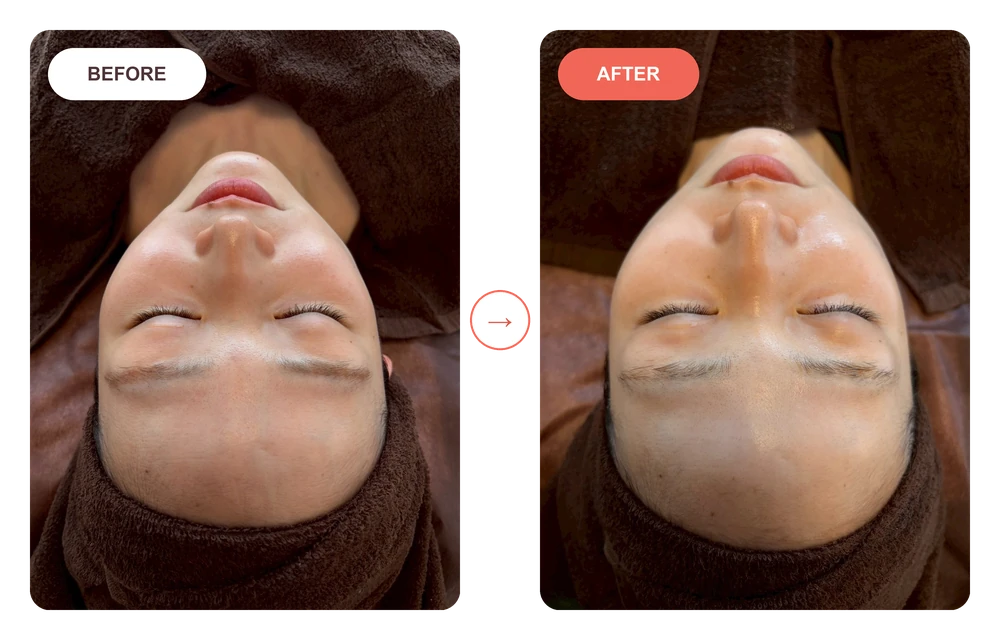
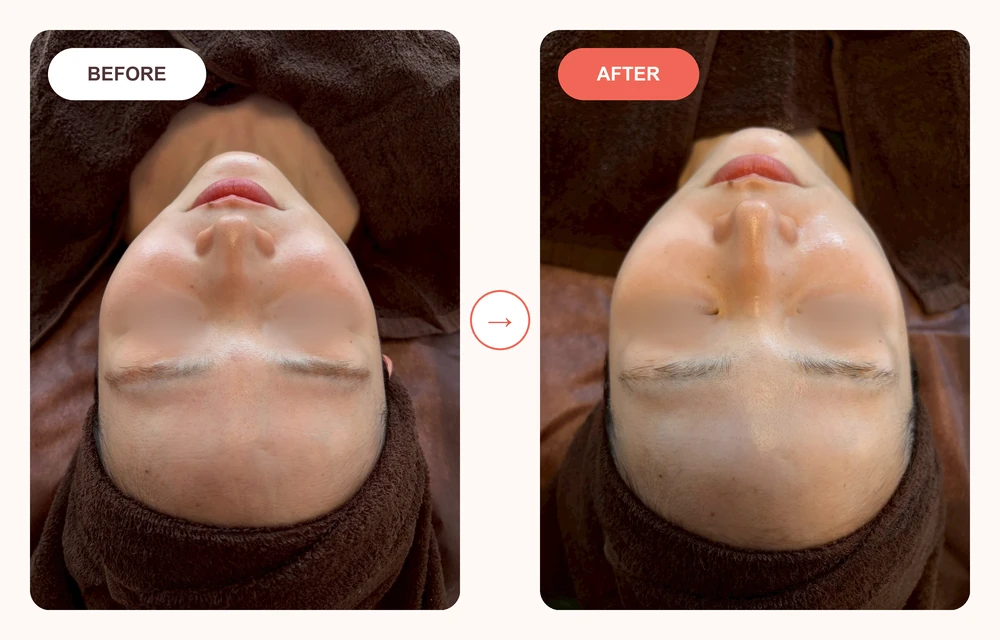
タブレット・中間サイズFV対応：テキスト拡大、SCROLL非表示、チップ非表示

diff --git a/style.css b/style.css
@@ -5720,16 +5720,7 @@ body.drawer-open {
     grid-column: span 2;
   }
 
-  /* Benefit：スマホでは1列に */
-  .benefit__list--stairs {
-    grid-template-columns: 1fr;
-    gap: 16px;
-  }
-  .benefit__item--1,
-  .benefit__item--2,
-  .benefit__item--3 {
-    margin-top: 0;
-  }
+  /* Benefit：スマホでは1列に（この行は空） */
 
   /* メカニズムのタイムライン */
   .mechanism__t-item {
@@ -6255,8 +6246,29 @@ body.drawer-open {
    タブレット調整 (min-width: 768px) and (max-width: 1024px)
    ============================================================ */
 @media (min-width: 768px) and (max-width: 1024px) {
-  /* FV：メイン画像をやや拡大 */
-  .fv__product-img { width: 48%; max-width: 360px; }
+  /* FV：max-width:900pxで1列化されるのをタブレットでは2列に戻す */
+  .fv__layout { grid-template-columns: 1.1fr 0.9fr !important; gap: 60px !important; text-align: left !important; }
+  .fv__copy { text-align: left !important; }
+  .fv__copy .brand-mark,
+  .fv__copy .fv__lead,
+  .fv__copy .fv__title,
+  .fv__copy .fv__sub { text-align: left !important; }
+  .fv__tags { justify-content: flex-start !important; }
+  /* FV：product-imgの親(.fv__visual)が900px以下で非表示になるため再表示 */
+  .fv__visual { display: block !important; }
+  /* FV：商品画像をPCと同じ位置・サイズに */
+  .fv__product-img { width: 60% !important; max-width: 460px !important; top: 45% !important; left: 40% !important; }
+  /* FV：テキストを大きく */
+  .fv__copy .fv__title { font-size: 84px !important; }
+  .fv__lead { font-size: 22px !important; }
+  .fv__sub { font-size: 16px !important; }
+  /* FV：浮いている3つのチップを非表示 */
+  .fv__chip { display: none !important; }
+  /* FV：SCROLLテキストと線を非表示 */
+  .fv__scroll,
+  .fv__scroll-line,
+  .scroll-indicator,
+  .fv__scroll-text { display: none !important; }
 
   /* FV：画像をやや縮小（ラインも追従） */
   .fv__left-group { width: min(85%, 450px); left: 28%; top: 60px; }
@@ -6445,28 +6457,99 @@ body.drawer-open {
   .header__nav { display: none; }
 }
 
-/* Benefit：PC・タブレットで常に3列横並び・テキスト収まる */
-@media (min-width: 768px) {
+/* Benefit：タブレット（768〜1024px）は縦1列・コンテンツ中央寄せ */
+@media (min-width: 768px) and (max-width: 1024px) {
   .benefit__list,
   .benefit__list--stairs {
-    display: grid;
-    grid-template-columns: repeat(3, 1fr);
-    gap: 24px;
-    align-items: start;
+    grid-template-columns: 1fr;
+    gap: 32px;
+    max-width: 460px;
+    margin-left: auto;
+    margin-right: auto;
   }
-  .benefit__item {
-    overflow: visible;
-    padding: 18% 8% 18%;
+  .benefit__item,
+  .benefit__item--1,
+  .benefit__item--2,
+  .benefit__item--3 {
+    margin-top: 0;
+    overflow: hidden !important;
+    aspect-ratio: 1 / 1 !important;
+    padding: 10% 8% !important;
+    justify-content: center !important;
+    align-items: center !important;
+  }
+  .benefit__inner {
+    justify-content: center !important;
+    height: auto !important;
+  }
+  .benefit__icon-wrap {
+    width: 44px !important;
+    height: 44px !important;
+    margin-bottom: 10px !important;
+  }
+  .benefit__icon-svg {
+    width: 32px !important;
+    height: 32px !important;
   }
   .benefit__title {
-    font-size: clamp(16px, 2.8vw, 38px);
+    font-size: clamp(24px, 4.8vw, 40px) !important;
+    margin-bottom: 10px !important;
+    line-height: 1.4 !important;
   }
   .benefit__text {
-    font-size: clamp(11px, 1.1vw, 14px);
-    line-height: 1.8;
+    font-size: clamp(12px, 1.5vw, 15px) !important;
+    line-height: 1.8 !important;
   }
   .benefit__decoration {
-    font-size: clamp(9px, 0.85vw, 11px);
+    font-size: clamp(9px, 1vw, 11px) !important;
+    margin-top: 12px !important;
   }
 }
 
+/* スマホ全域：SCROLLと線を非表示 */
+@media (max-width: 767px) {
+  .fv__scroll,
+  .fv__scroll-line,
+  .scroll-indicator,
+  .fv__scroll-text { display: none !important; }
+}
+
+/* Benefit：スマホ（〜767px）は1列に */
+@media (max-width: 767px) {
+  .benefit__list,
+  .benefit__list--stairs {
+    grid-template-columns: 1fr !important;
+    gap: 16px !important;
+    max-width: 100% !important;
+  }
+  .benefit__item--1,
+  .benefit__item--2,
+  .benefit__item--3 {
+    margin-top: 0 !important;
+  }
+}
+
+/* FV：600〜767px */
+@media (min-width: 600px) and (max-width: 767px) {
+  /* SCROLLと線を非表示 */
+  .fv__scroll,
+  .fv__scroll-line,
+  .scroll-indicator,
+  .fv__scroll-text { display: none !important; }
+  /* テキストをPCと同じ左揃えに */
+  .fv__copy { text-align: left !important; }
+  .fv__copy .brand-mark,
+  .fv__copy .fv__lead,
+  .fv__copy .fv__title,
+  .fv__copy .fv__sub { text-align: left !important; }
+  .fv__tags { justify-content: flex-start !important; }
+  /* テキストサイズ大きく（固定値） */
+  .fv__title,
+  .fv__copy .fv__title { font-size: 80px !important; }
+  .fv__lead,
+  .fv__copy .fv__lead { font-size: 22px !important; }
+  .fv__sub,
+  .fv__copy .fv__sub { font-size: 16px !important; }
+  /* ボタンを下に */
+  .fv__cta { margin-top: 120px !important; }
+}

diff --git a/index.html b/index.html
@@ -8,7 +8,17 @@
 <link rel="preconnect" href="https://fonts.googleapis.com">
 <link rel="preconnect" href="https://fonts.gstatic.com" crossorigin>
 <link href="https://fonts.googleapis.com/css2?family=Cormorant+Garamond:ital,wght@0,400;1,400&family=Marcellus&family=Noto+Sans+JP:wght@300;400&family=Shippori+Mincho&family=Caveat&family=Yomogi&family=Klee+One&family=Yusei+Magic&family=Hachi+Maru+Pop&display=swap" rel="stylesheet">
-<link rel="stylesheet" href="style.css">
+<link rel="stylesheet" href="style.css?v=20260805b">
+<style>
+/* 600〜767px FVテキスト強制上書き */
+@media (min-width: 600px) and (max-width: 767px) {
+  .fv__title { font-size: 80px !important; }
+  .fv__lead { font-size: 22px !important; }
+  .fv__sub { font-size: 16px !important; }
+  .fv__copy { text-align: left !important; }
+  .fv__scroll, .fv__scroll-line { display: none !important; }
+}
+</style>
 <link rel="stylesheet" href="https://cdn.jsdelivr.net/npm/@tabler/icons-webfont@latest/dist/tabler-icons.min.css">
 </head>
 <body>
@@ -346,7 +356,7 @@
       </div>
       <div class="bfa__photos">
         <div class="bfa__photo-single">
-          <img src="images/before-after-front.webp" alt="使用前後（正面）" class="bfa__photo">
+          <img src="images/before-after-front.webp?v=20260805-18" alt="使用前後（正面）" class="bfa__photo">
         </div>
       </div>
       <p class="bfa__disclaimer">※使用前後の写真です　※効果には個人差があります</p>
@@ -376,7 +386,7 @@
       </div>
       <div class="bfa__photos">
         <div class="bfa__photo-single">
-          <img src="images/before-after-side-pc.webp" alt="使用前後（側面）" class="bfa__photo">
+          <img src="images/before-after-side-pc.webp?v=20260805-18" alt="使用前後（側面）" class="bfa__photo">
         </div>
       </div>
       <p class="bfa__disclaimer">※使用前後の写真です　※効果には個人差があります</p>
@@ -1419,5 +1429,12 @@ document.addEventListener('DOMContentLoaded', function(){
   <p class="fv__cta-note">※Instagram #pdrn 投稿数61.3万件(2026年6月時点)</p>
 </div>
 
+<style>
+@media (min-width: 600px) and (max-width: 767px) {
+  .fv__title { font-size: 80px !important; }
+  .fv__lead { font-size: 22px !important; }
+  .fv__sub { font-size: 16px !important; }
+}
+</style>
 </body>
 </html>
